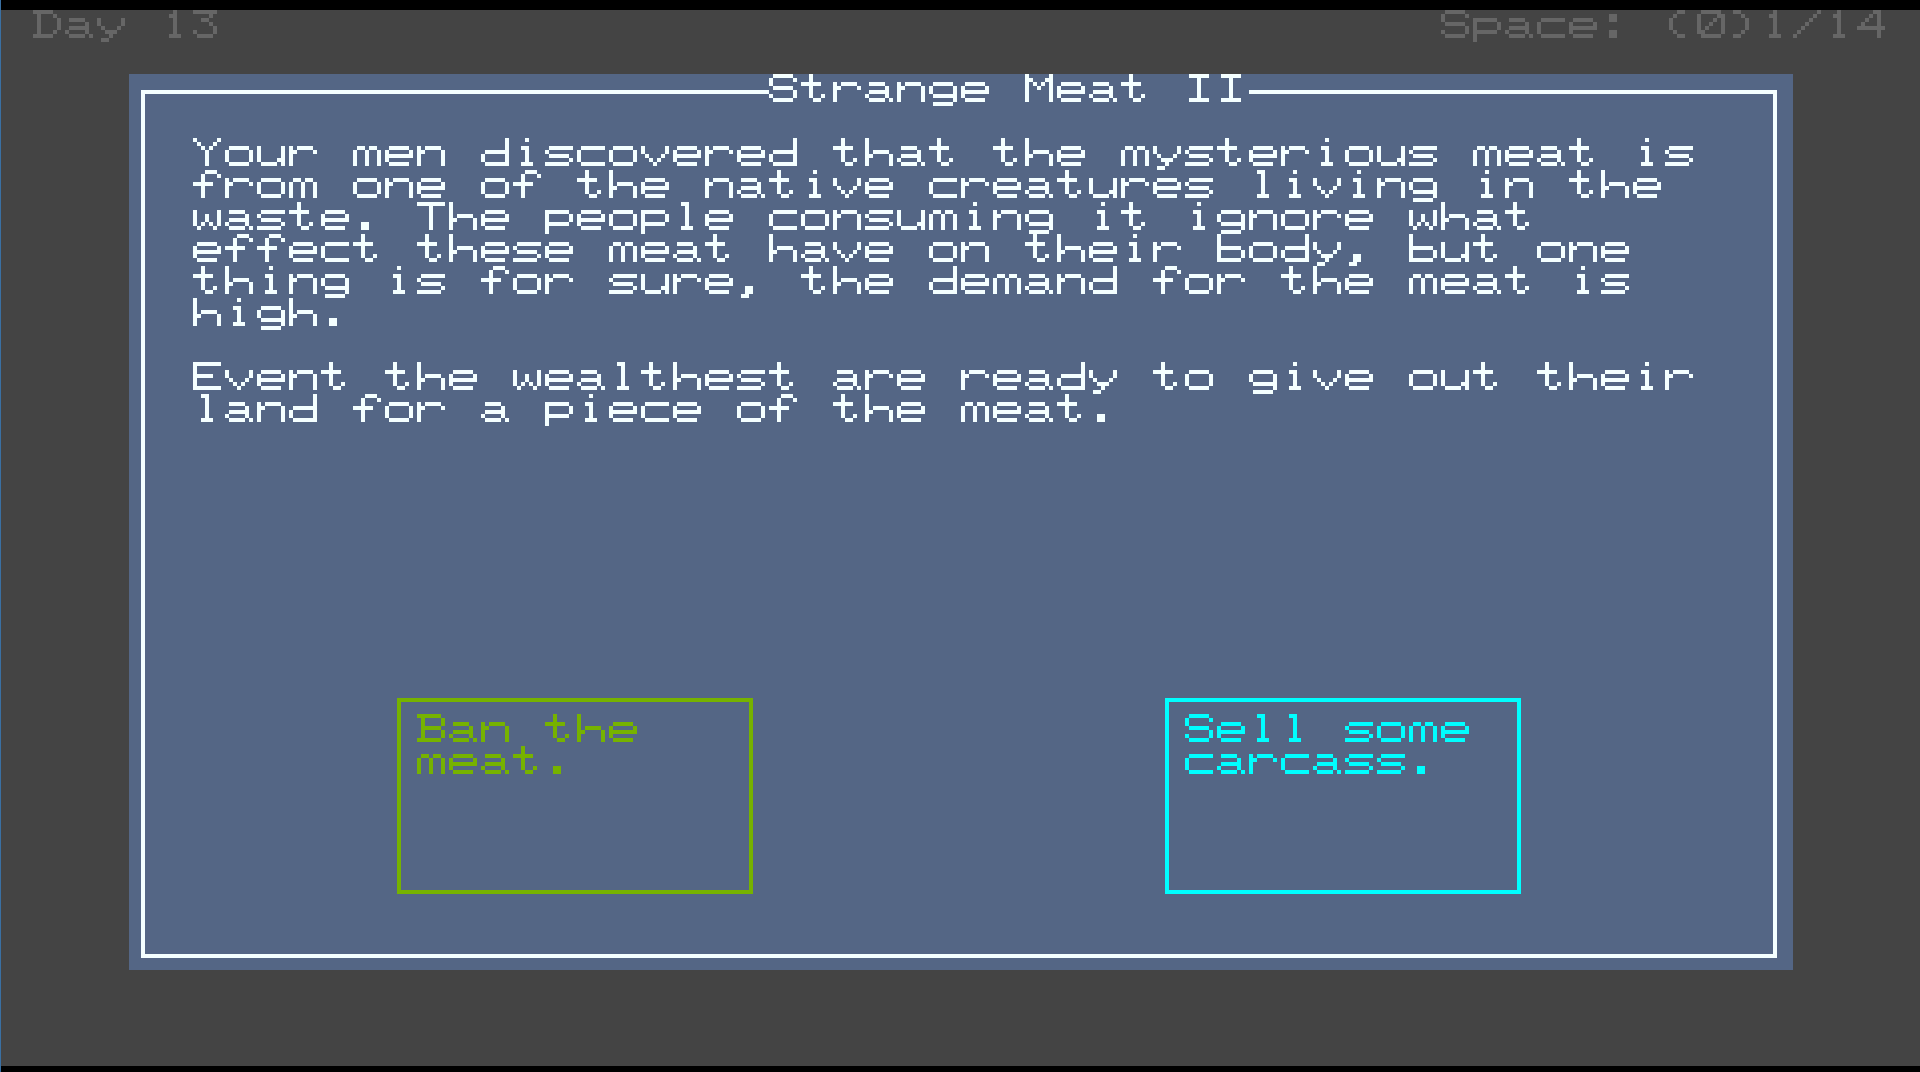
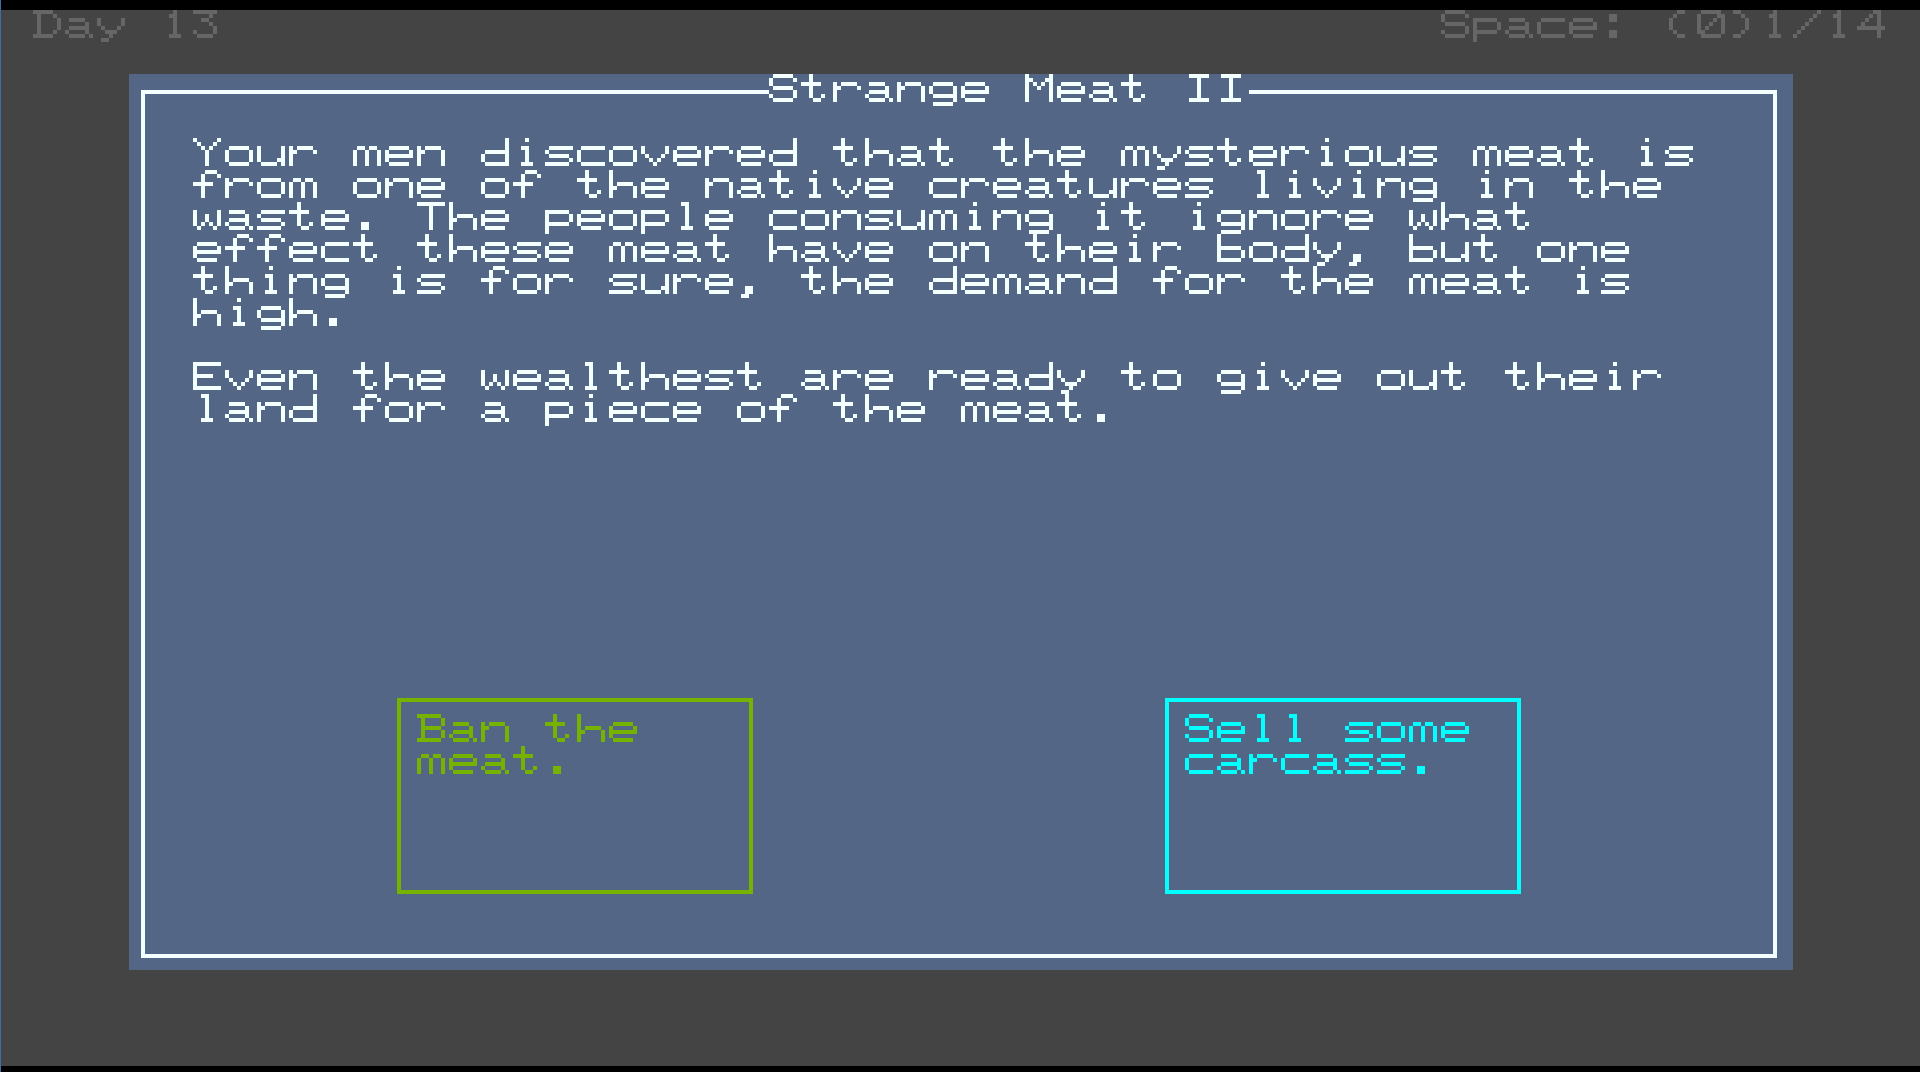
fixed typos

Changed region(s): [[0.1562, 0.3386, 0.875, 0.3694]]

diff --git a/SpaceSurvival/src/spacesurvival/logic/Event.java b/SpaceSurvival/src/spacesurvival/logic/Event.java
@@ -455,15 +455,17 @@ public class Event {
         ));
         allEventsList.add(new Event(
                 "Strange Meat II", 
-                "Your men discovered that the mysterious meat is from one of the native creatures living in the waste. The people consuming it ignore what effect these meat have on their body, but one thing is for sure, the demand for the meat is high.\n\n" +
-                "Even the wealthest are ready to give out their land for a piece of the meat.",
+                "Your men discovered that the mysterious meat is from one of the native creatures living in our sewers. The people consuming seems to ignore its effects on their bodies, Wseemingly addicted to it. One thing is certain, the demand for the meat is high and will rise even higher.\n\n" +
+                "Even the wealthiest are ready to give out their land for a piece of the meat.",
                 (c) -> {
                     return c.getDay() >= 13 && c.checkEventChoosedId(9);
                 }, 
                 (c) -> {
                 },
                 new EventChoice("Ban the meat.", 10),
-                new EventChoice("Sell some carcass.", 11)
+                new EventChoice("Sell some carcass.", 11, (c) -> {
+                    c.appendReport("You tried to sell some mystery meat, but everyone seems to only buy from the restaurants.\n");
+                })
         ));
         allEventsList.add(new Event(
                 "Public Health Issue", 
@@ -479,9 +481,9 @@ public class Event {
         ));
         allEventsList.add(new Event(
                 "Strange Meat III", 
-                "Extensive research has shown that the consumption of the natives' meat is highly dangerous and toxic to the human body. The symptoms are similar to radioactive poisoning.\n\n" + 
+                "Extensive research has shown that the consumption of the natives' meat is highly dangerous and toxic to the human body. The resulting symptoms are similar to radioactive poisoning.\n\n" + 
                 "The meat was banned and an antidote was quickly developped and distributed to those affected.\n" +
-                "There was discontent among those affected.",
+                "There was discontent among those affected. Some have been quarantined and are currently being treated. It is unknown if the debilitating effects can be fully cured.",
                 (c) -> {
                     return c.getDay() >= 17 && c.checkEventChoosedId(10);
                 }, 
